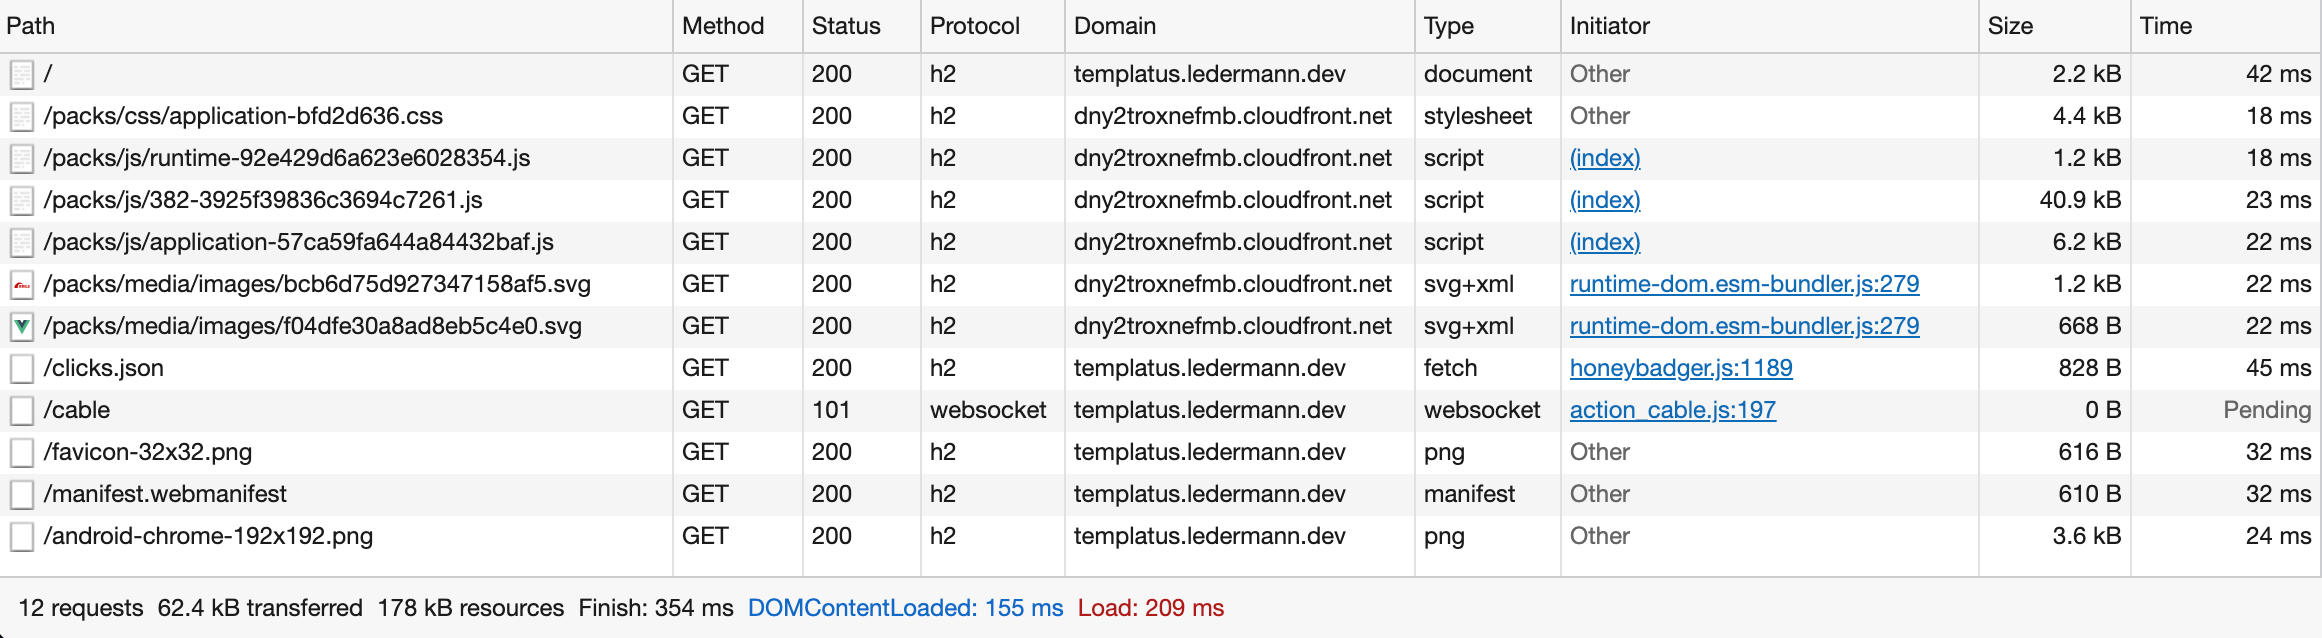
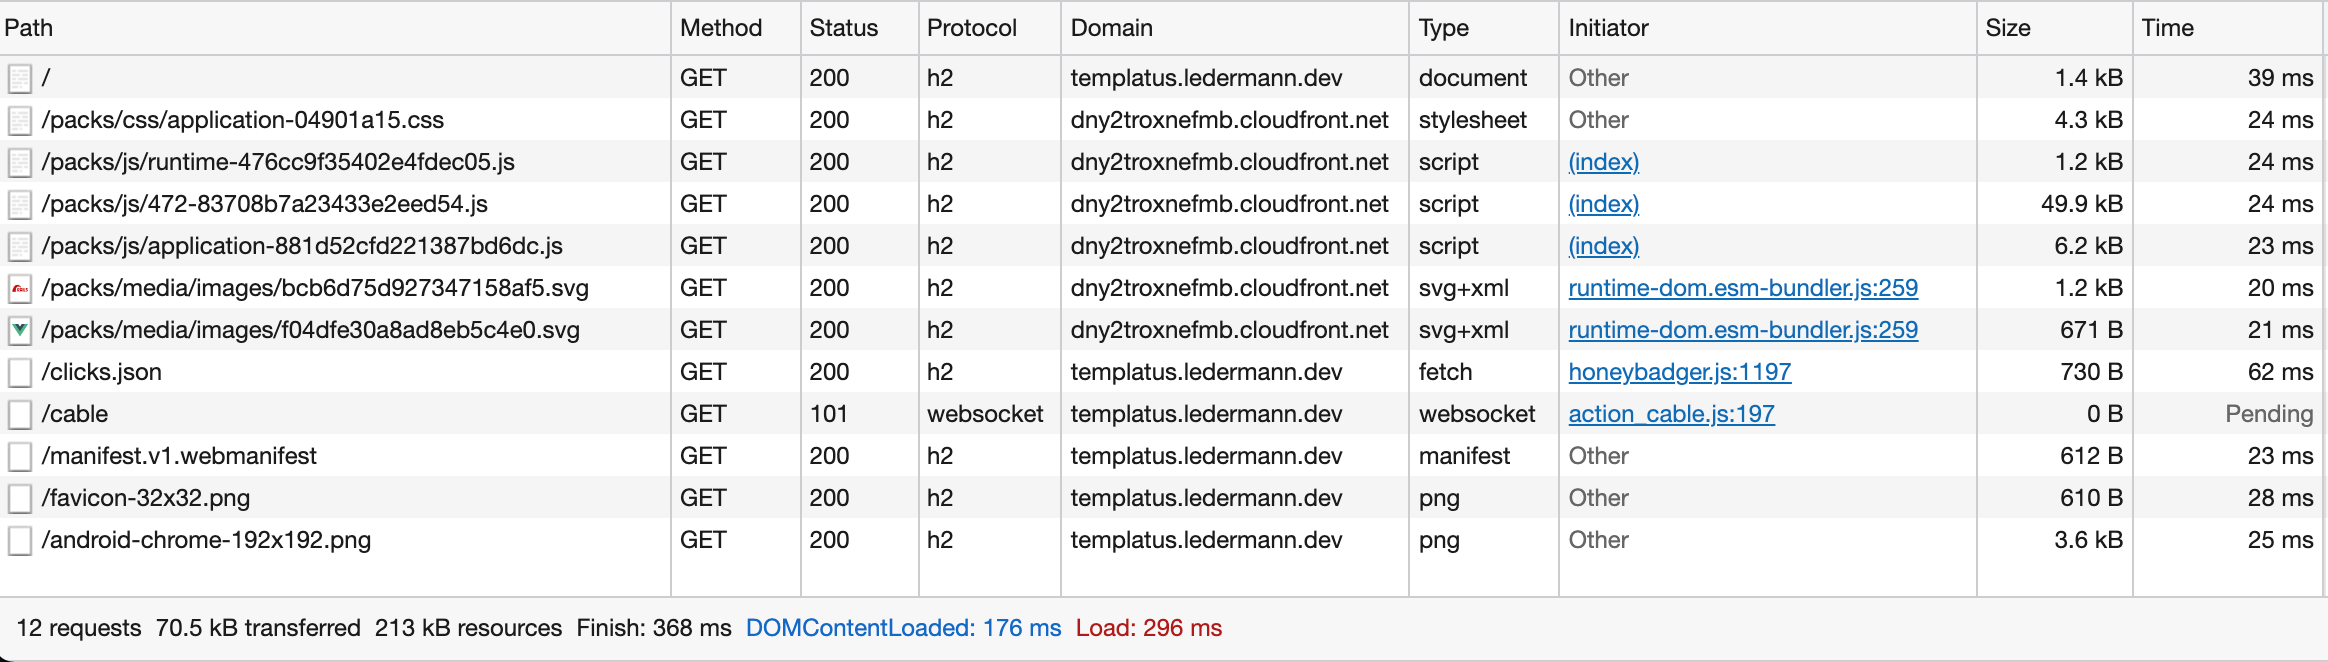
Readme: Update stats

diff --git a/README.md b/README.md
@@ -120,12 +120,12 @@ assets by path media/images/ 4.45 KiB
     asset media/images/bcb6d75d927347158af5.svg.br 796 bytes [emitted] [immutable] [compressed]
     asset media/images/f04dfe30a8ad8eb5c4e0.svg.br 224 bytes [emitted] [immutable] [compressed]
 assets by path js/*.js 180 KiB
-  asset js/472-08671442655500ee294b.js 161 KiB [emitted] [immutable] [minimized] (id hint: vendors) 4 related assets
+  asset js/472-fad4d1f1f17456e52ff9.js 161 KiB [emitted] [immutable] [minimized] (id hint: vendors) 4 related assets
   asset js/application-452e73d07b8e2dbeab47.js 17.7 KiB [emitted] [immutable] [minimized] (name: application) 3 related assets
   asset js/runtime-476cc9f35402e4fdec05.js 1.42 KiB [emitted] [immutable] [minimized] (name: runtime) 3 related assets
 asset css/application-04901a15.css 17.3 KiB [emitted] [immutable] [minimized] (name: application) 3 related assets
 asset manifest.json 3.01 KiB [emitted] 2 related assets
-Entrypoint application 198 KiB (272 KiB) = js/runtime-476cc9f35402e4fdec05.js 1.42 KiB js/472-08671442655500ee294b.js 161 KiB css/application-04901a15.css 17.3 KiB js/application-452e73d07b8e2dbeab47.js 17.7 KiB 6 auxiliary assets
+Entrypoint application 198 KiB (272 KiB) = js/runtime-476cc9f35402e4fdec05.js 1.42 KiB js/472-fad4d1f1f17456e52ff9.js 161 KiB css/application-04901a15.css 17.3 KiB js/application-452e73d07b8e2dbeab47.js 17.7 KiB 6 auxiliary assets
 orphan modules 191 KiB [orphan] 287 modules
 runtime modules 3.39 KiB 7 modules
 built modules 914 KiB (javascript) 2.33 KiB (asset) 27.4 KiB (css/mini-extract) [built]
@@ -146,7 +146,7 @@ webpack 5.50.0 compiled successfully in 7820 ms
 
 ### Network transfer
 
-Small footprint: The demo application transfers only 69Kb of data on the first visit.
+Small footprint: The demo application transfers only 70Kb of data on the first visit.
 
 ![Network](docs/network.png)
 
@@ -165,7 +165,7 @@ $ container-diff analyze ghcr.io/ledermann/templatus -n
 
 Analysis for ghcr.io/ledermann/templatus:
 IMAGE                              DIGEST                                                                         SIZE
-ghcr.io/ledermann/templatus        sha256:0b0756ab6dfbc1e8d17177720b6197bcaa1ab55912f0cd4491aa2b8d1cc83fdb        117M
+ghcr.io/ledermann/templatus        sha256:fb80c5b398f1d18d2a85a6f5eeb72af59b291f2ab9372e56dc16a85981d68437        117M
 ```
 
 ## Development installation
